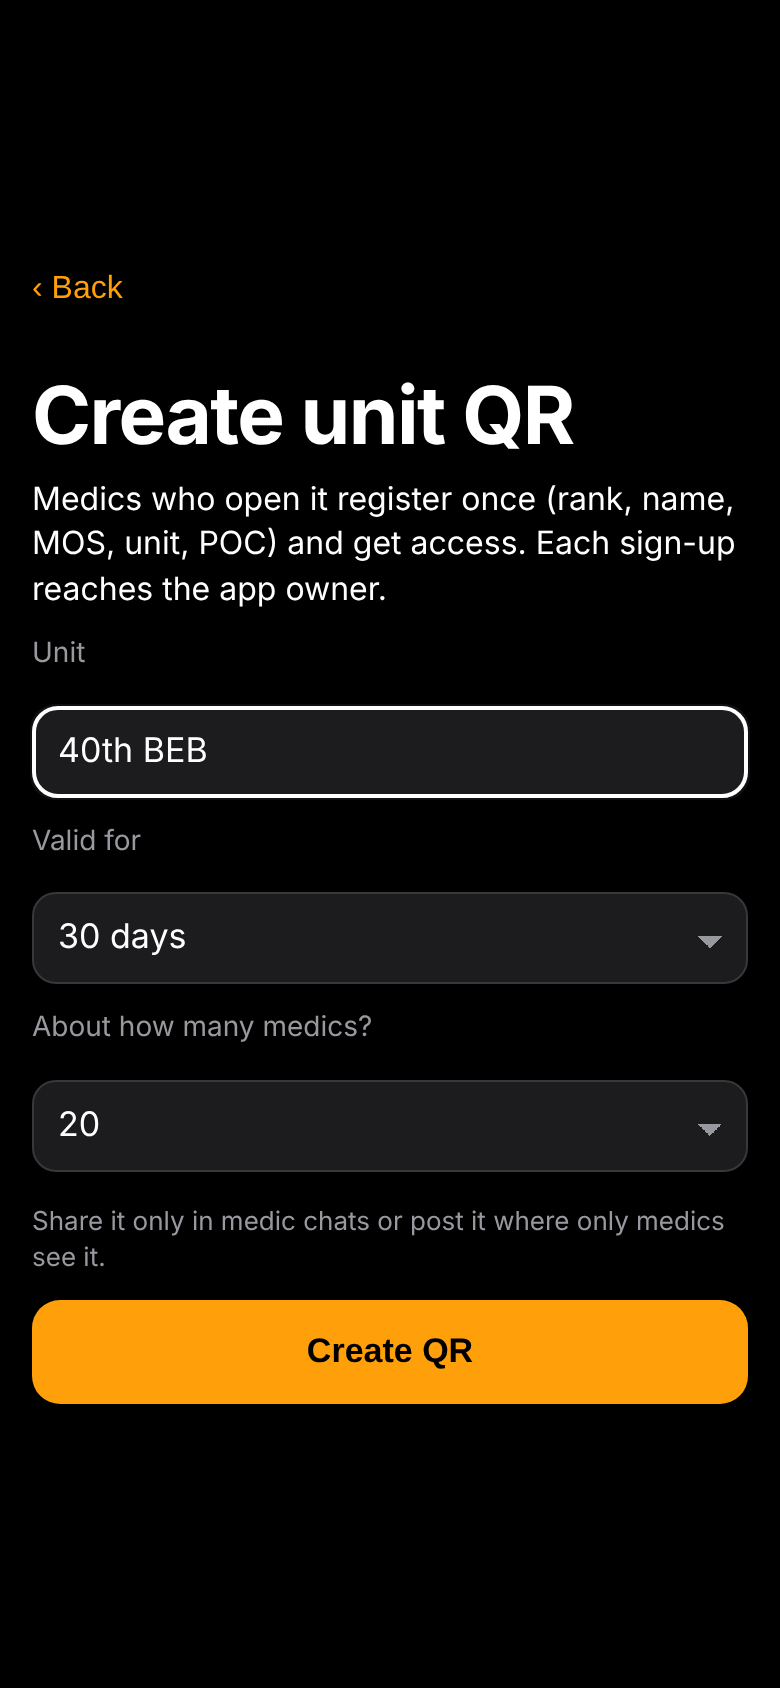
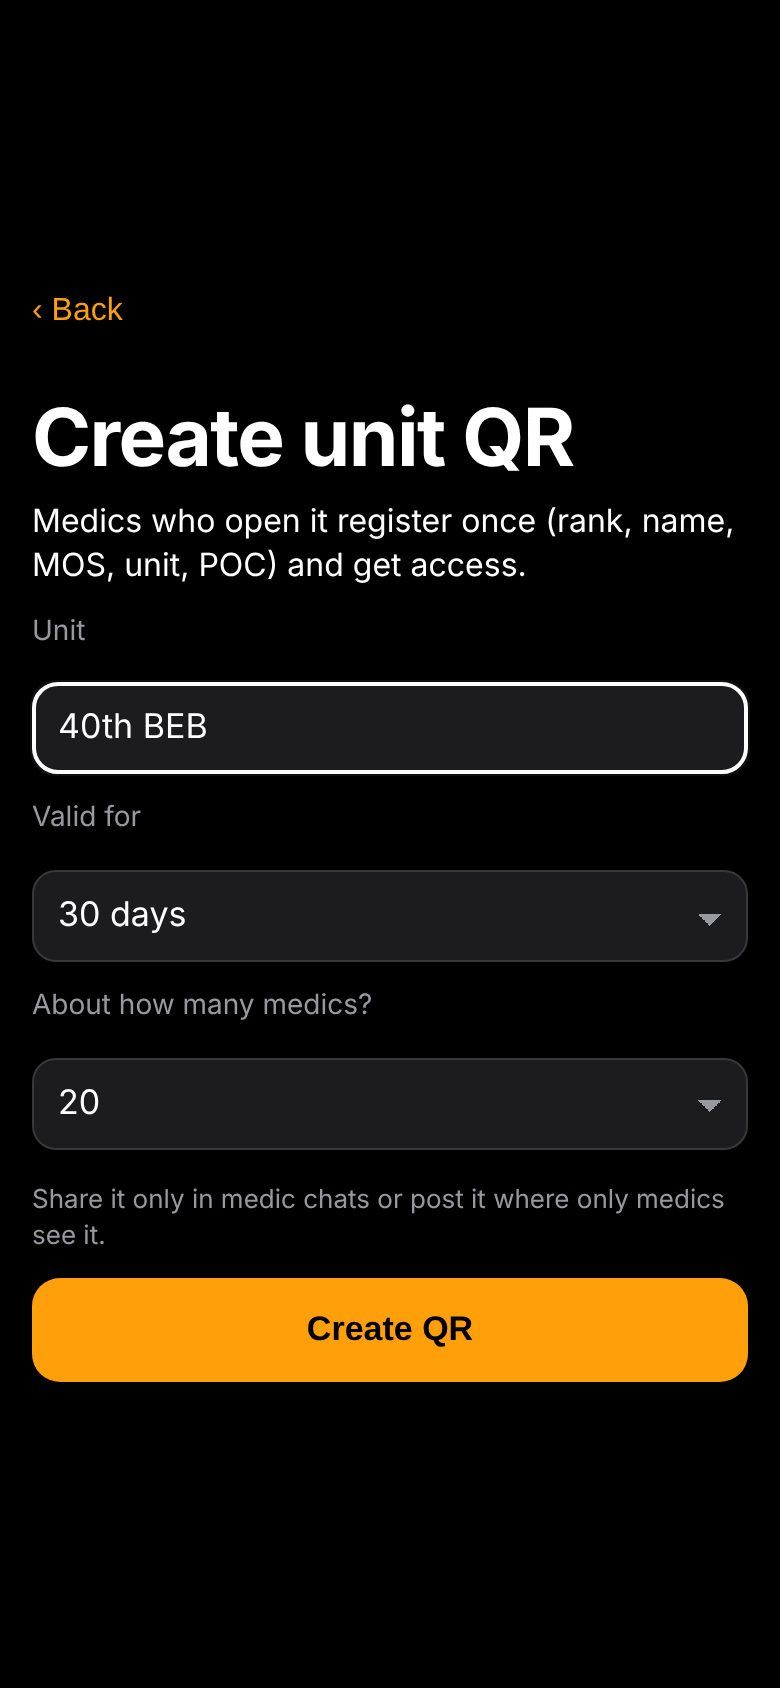
Sign-up wording (v30) / Texto del registro (v30) (#71)
Medic sign-up says registration is only used to verify medic access; removed outdated no-storage line; v30.

El registro del médico dice que solo se usa para verificar el acceso; se quitó la línea vieja de no guardar datos; v30.

Claude-Session: https://claude.ai/code/session_015dVcNB5Wifchtix1QkjYVg

Changed region(s): [[0.0308, 0.2156, 0.9538, 0.8318], [0.0615, 0.154, 0.1538, 0.1848]]

diff --git a/access.js b/access.js
@@ -162,7 +162,7 @@ function renderAccess(){
   if(!r)h+='<div class="algo-actions"><button onclick="accGate(true)">'+L('Request access','Pedir acceso')+'</button><button class="ghost" onclick="acReqView(\'appr\')">'+L('Become an approver','Ser aprobador')+'</button></div>';
   if(r&&r.r==='medic')h+='<div class="algo-actions"><button class="ghost" onclick="acReqView(\'appr\')">'+L('I\'m a medic NCO — become an approver','Soy NCO de médicos — ser aprobador')+'</button></div>';
   h+='<div class="algo-actions"><button class="ghost" onclick="acHaveView()">🔑 '+L('Paste approval / certificate / admin key','Pegar aprobación / certificado / llave admin')+'</button></div>';
-  h+='<p class="note-hint foot">'+L('Approvals are signed and only work on the phone that asked for them. No names or IDs are stored on any server. To revoke someone, give the app owner the approval ID.','Las aprobaciones están firmadas y solo funcionan en el teléfono que las pidió. No se guardan nombres ni IDs en ningún servidor. Para revocar a alguien, dale al dueño de la app el ID de la aprobación.')+'</p>';
+  h+='<p class="note-hint foot">'+L('Approvals are signed and only work on the phone that asked for them. To revoke someone, give the app owner the approval ID.','Las aprobaciones están firmadas y solo funcionan en el teléfono que las pidió. Para revocar a alguien, dale al dueño de la app el ID de la aprobación.')+'</p>';
   return h;
 }
 function acHashCheck(){const h=location.hash||'';if(!/(acc|areq|acert|aroot|ainv)=/.test(h))return false;try{history.replaceState(null,'',location.pathname+location.search);}catch(e){}acHandle(h);return true;}
@@ -177,7 +177,7 @@ const AC_MOS=[['68W','68W Combat Medic'],['18D','18D SF Medical Sergeant'],['68C
 function acJoinView(tok,iv){
   const s=AC.get('sc_reg')||{};
   acOv('<button class="ac-back" onclick="accGate(true)">‹ '+L('Back','Atrás')+'</button><h2>'+L('Medic sign-up','Registro de médico')+'</h2>'
-   +'<p class="mg-sub" style="margin-bottom:10px">'+L('Unit QR: ','QR de unidad: ')+'<b>'+acEsc(iv.u)+'</b>. '+L('Fill this once — it goes only to the app owner.','Llénalo una vez — solo le llega al dueño de la app.')+'</p>'
+   +'<p class="mg-sub" style="margin-bottom:10px">'+L('Unit QR: ','QR de unidad: ')+'<b>'+acEsc(iv.u)+'</b>. '+L('Fill this once. It is only used to verify medic access.','Llénalo una vez. Solo se usa para verificar el acceso de médicos.')+'</p>'
    +'<div class="ac-row"><div style="flex:0 0 38%"><label class="ac-l">'+L('Rank','Rango')+'</label><select id="jR" class="ac-in"><option value="">—</option>'+AC_RANKS.map(r=>'<option'+(s.rank===r?' selected':'')+'>'+r+'</option>').join('')+'</select></div>'
    +'<div style="flex:1"><label class="ac-l">'+L('Last name','Apellido')+'</label><input id="jL" class="ac-in" maxlength="30" autocomplete="family-name" value="'+acEsc(s.last||'')+'"></div></div>'
    +'<label class="ac-l">'+L('First name + middle initial','Nombre + inicial')+'</label><input id="jF" class="ac-in" maxlength="30" autocomplete="given-name" placeholder="'+L('e.g. Michael A.','ej. Michael A.')+'" value="'+acEsc(s.first||'')+'">'
@@ -218,7 +218,7 @@ window.addEventListener('message',e=>{
 function acInvView(){
   const me=acRole;if(!me||(me.r!=='root'&&me.r!=='appr'))return;
   acOv('<button class="ac-back" onclick="acClose();goRef(\'access\')">‹ '+L('Back','Atrás')+'</button><h2>'+L('Create unit QR','Crear QR de unidad')+'</h2>'
-   +'<p>'+L('Medics who open it register once (rank, name, MOS, unit, POC) and get access. Each sign-up reaches the app owner.','Los médicos que lo abran se registran una vez (rango, nombre, MOS, unidad, contacto) y entran. Cada registro le llega al dueño de la app.')+'</p>'
+   +'<p>'+L('Medics who open it register once (rank, name, MOS, unit, POC) and get access.','Los médicos que lo abran se registran una vez (rango, nombre, MOS, unidad, contacto) y entran.')+'</p>'
    +'<label class="ac-l">'+L('Unit','Unidad')+'</label><input id="iU" class="ac-in" maxlength="40" value="'+acEsc(me.r==='appr'?me.u:'')+'"'+(me.r==='appr'?' readonly':'')+'>'
    +'<label class="ac-l">'+L('Valid for','Válido por')+'</label><select id="iD" class="ac-in"><option value="7">7 '+L('days','días')+'</option><option value="14">14 '+L('days','días')+'</option><option value="30" selected>30 '+L('days','días')+'</option></select>'
    +'<label class="ac-l">'+L('About how many medics?','¿Más o menos cuántos médicos?')+'</label><select id="iN" class="ac-in"><option>5</option><option>10</option><option selected>20</option><option>50</option></select>'

diff --git a/sw.js b/sw.js
@@ -1,4 +1,4 @@
-const C='sickcall-v29';
+const C='sickcall-v30';
 const FILES=['./','index.html','style.css','app.js','data/protocols.js','data/meds.js','data/plans.js','data/notetags.js','data/howto.js','data/es.js','manifest.json','vendor/pdf-lib.min.js','forms/DD689.pdf','data/intake.js','intake.html','poster.html','vendor/qrcode.min.js','vendor/jsQR.min.js','access.js','data/access.js','data/medinfo.js','data/pfb.js','data/whatsnew.js','icons/icon-192.png','icons/icon-512.png','icons/apple-touch-icon.png'];
 self.addEventListener('install',e=>{e.waitUntil(caches.open(C).then(c=>c.addAll(FILES.map(f=>new Request(f,{cache:'reload'})))).then(()=>self.skipWaiting()));});
 self.addEventListener('activate',e=>{e.waitUntil(caches.keys().then(k=>Promise.all(k.filter(x=>x!==C).map(x=>caches.delete(x)))).then(()=>self.clients.claim()));});

diff --git a/app.js b/app.js
@@ -2758,7 +2758,7 @@ async function tryUnlock(){
 }
 function lockNow(){if(settings.pin){document.getElementById('lock').style.display='flex';}}
 function showLockIfNeeded(){if(settings.pin)document.getElementById('lock').style.display='flex';}
-const APP_VER='v29';
+const APP_VER='v30';
 function updateApp(b){
   if(b){b.disabled=true;b.textContent=L('Updating…','Actualizando…');}
   const go=()=>{location.href=location.pathname+'?u='+Date.now();};

diff --git a/CHANGELOG.md b/CHANGELOG.md
@@ -4,6 +4,8 @@ Bilingual summary of everything added or fixed, newest first. PR numbers refer t
 Resumen bilingüe de todo lo agregado o corregido, lo más nuevo primero. Los números de PR son de este repositorio.
 
 ## Unreleased / Próximo
+- **Sign-up wording:** the medic sign-up says the registration is only used to verify medic access.
+  **Texto del registro:** el registro del médico dice que solo se usa para verificar el acceso de médicos.
 - **Unit QR for medic access:** the owner or an NCO approver creates a signed unit QR/link (More → Access → Create unit QR; valid 7/14/30 days). A medic scans it, fills rank, last/first name, MOS (medical MOS list only), unit and point of contact, taps "Confirm & enter" and has access. Each sign-up (with device ID and QR ID) goes to the owner's Tally form "Sick Call — Medic sign-up". Revocation without a new release: add a device ID, approval ID or QR ID to `revoked.json`; phones check it every time the app opens. Phones approved the old way keep working; the request/approval path stays as a fallback.
   **QR de unidad para acceso de médicos:** el dueño o un NCO aprobador crea un QR/link firmado de la unidad (Más → Acceso → Crear QR de unidad; válido 7/14/30 días). El médico lo escanea, llena rango, apellido/nombre, MOS (solo MOS médicos), unidad y punto de contacto, toca "Confirmar y entrar" y ya tiene acceso. Cada registro (con ID del teléfono y del QR) llega al formulario de Tally del dueño "Sick Call — Medic sign-up". Revocar sin versión nueva: agrega el ID del teléfono, de la aprobación o del QR a `revoked.json`; los teléfonos lo revisan cada vez que se abre la app. Los teléfonos aprobados a la antigua siguen funcionando; la solicitud/aprobación queda como respaldo.
 - **Guest MACE is a quick screen only:** in guest mode MACE shows just 1D and 2A–2D and a Positive / Negative result telling the person to go to a medic (no driving, PT or weapons if positive; warning signs if negative). Cognitive and neuro exam, VOMS, summary, notes, PRA and coding are hidden.
